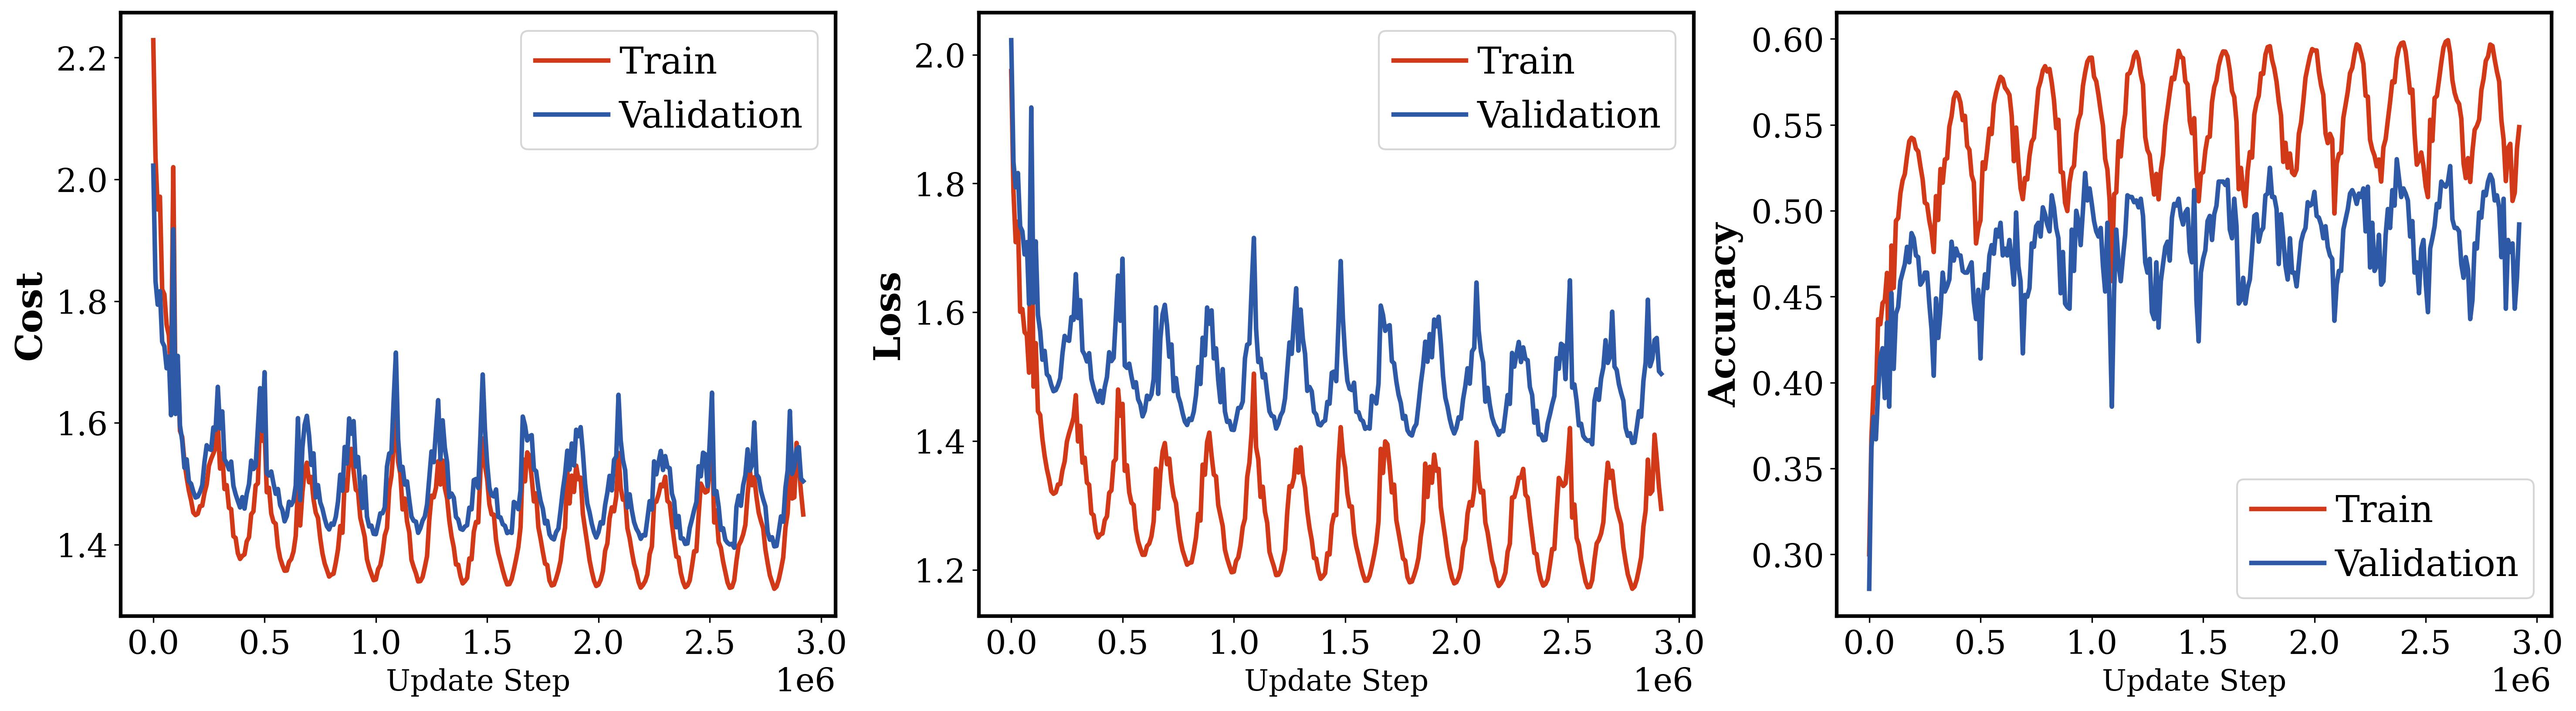
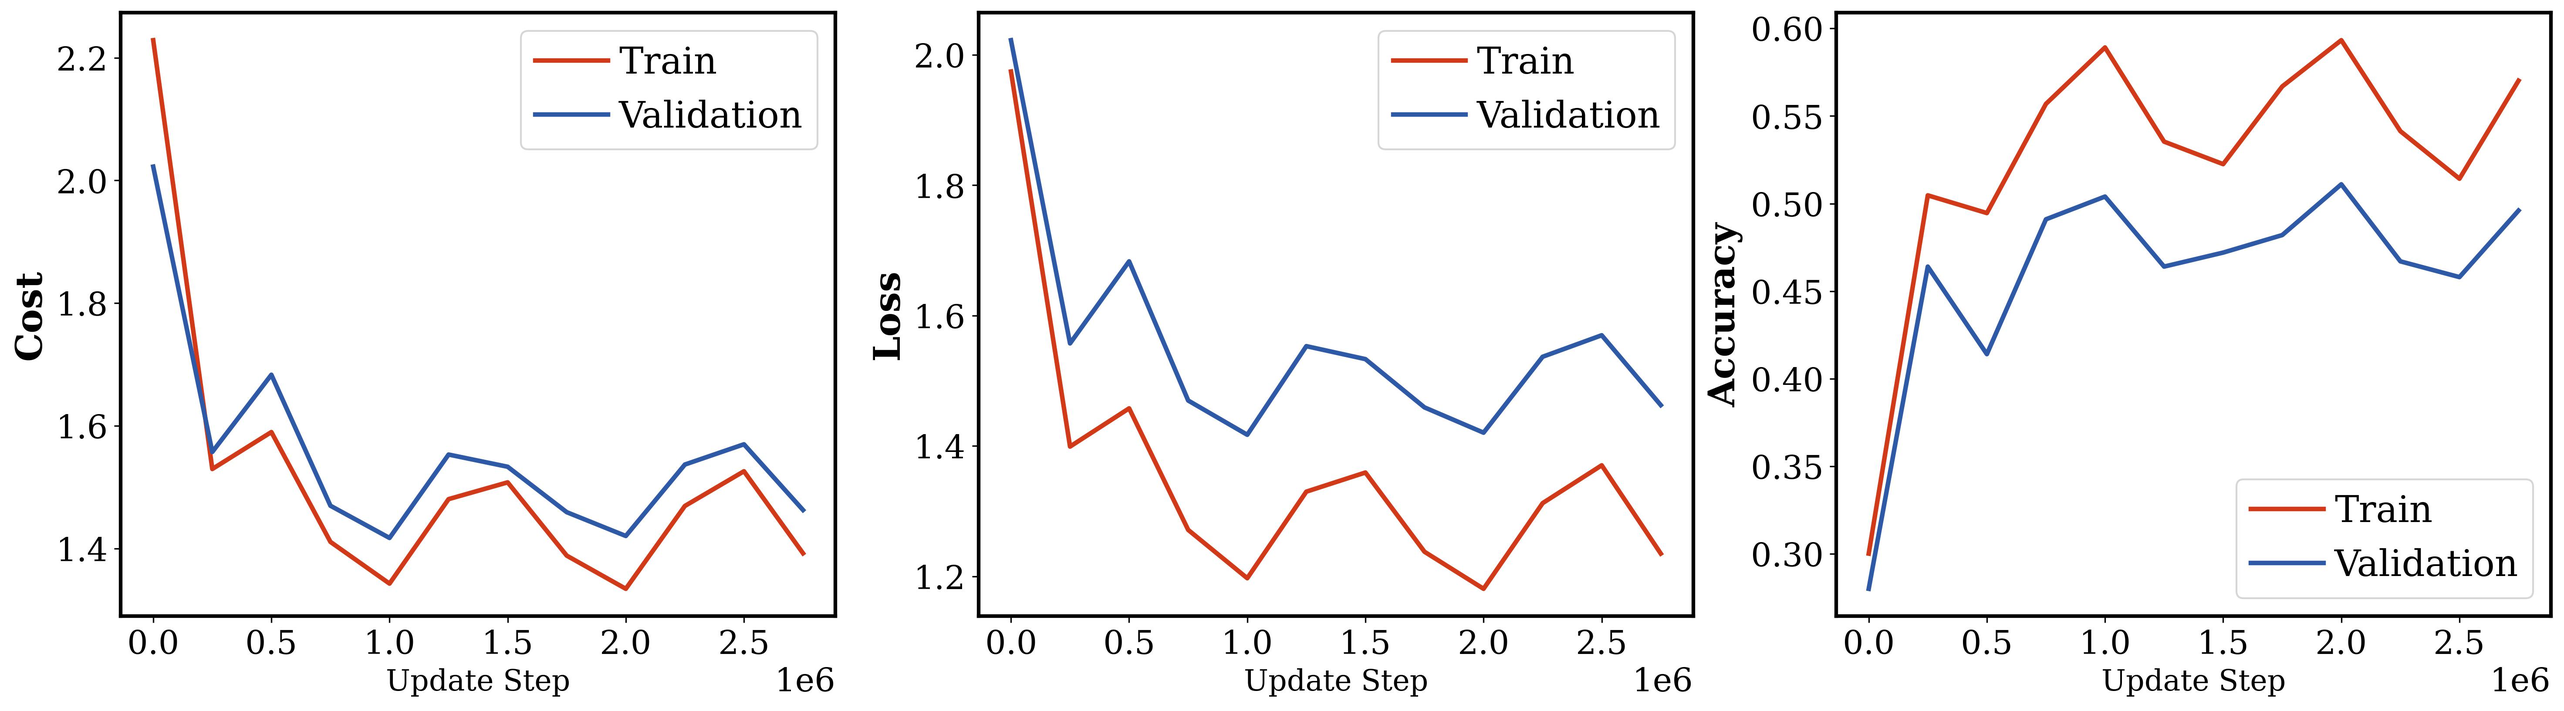
Update new figures

diff --git a/hw2/main.py b/hw2/main.py
@@ -1524,7 +1524,7 @@ def post_E7():
 	fig , axs  = plt.subplots(1,3,figsize=(24,6))
 
 	n_start = 0 
-	n_interval = 1
+	n_interval = 25
 	n_range = np.arange(0, n_epoch * N_sample,n_batch**2)
 	print(len(n_range))
 
@@ -1567,7 +1567,7 @@ if __name__ == "__main__":
 		# train_E6()
 		post_E6()
 	elif (args.m==7):
-		train_E7()
+		# train_E7()
 		post_E7()
 	else:
 		raise ValueError
